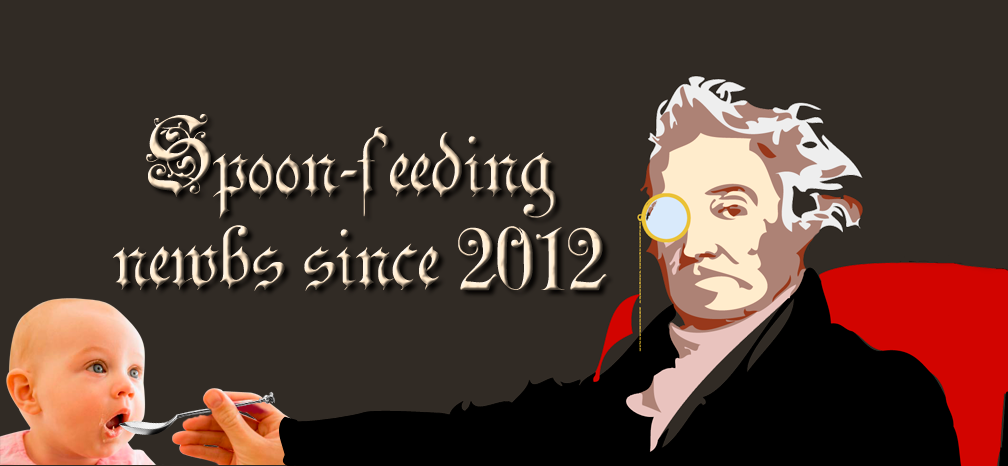
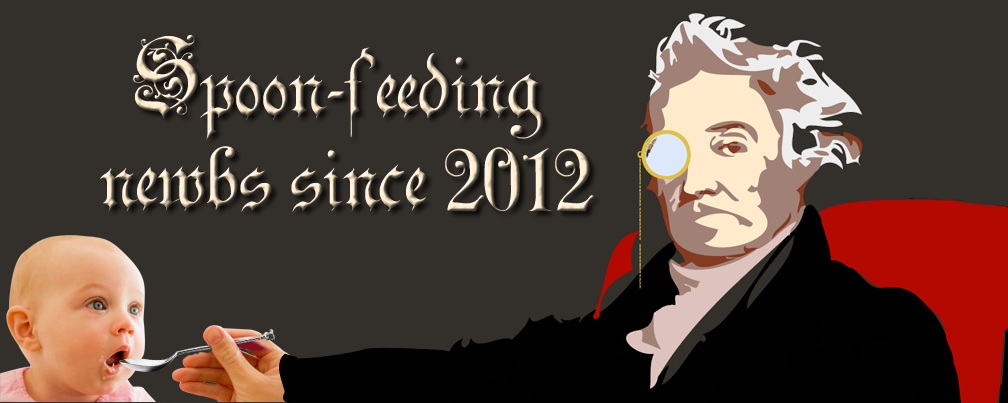
aeu

diff --git a/css/bootstrap.min.css b/css/bootstrap.min.css
@@ -840,7 +840,7 @@ a.label:hover,a.badge:hover{color:#ffffff;text-decoration:none;cursor:pointer;}
 .learn-title{padding:60px;margin-top:30px;background:url('http://webst.ir/learn3.png') no-repeat center top fixed; background-size:80%;}
 .create-title{padding:60px;margin-top:30px;background:url('http://webst.ir/create2.png') no-repeat center top fixed; background-size:100%;}
 .art-title{padding:60px;margin-top:30px;background:url('http://webst.ir/art3.png') no-repeat center top fixed; background-size:100%;}
-.home-title{padding:60px;margin-top:10px;background:url('http://webst.ir/webster.png') no-repeat center top;background-size:95%}
+.home-title{padding:60px;margin-top:10px;background:url('http://webst.ir/webster.png') no-repeat center top;}
 .web-title{padding:60px;margin-top:30px;background:url('http://webst.ir/web_home.png') no-repeat center center fixed;}
 .pull-right{float:right;}
 .pull-left{float:left;}
